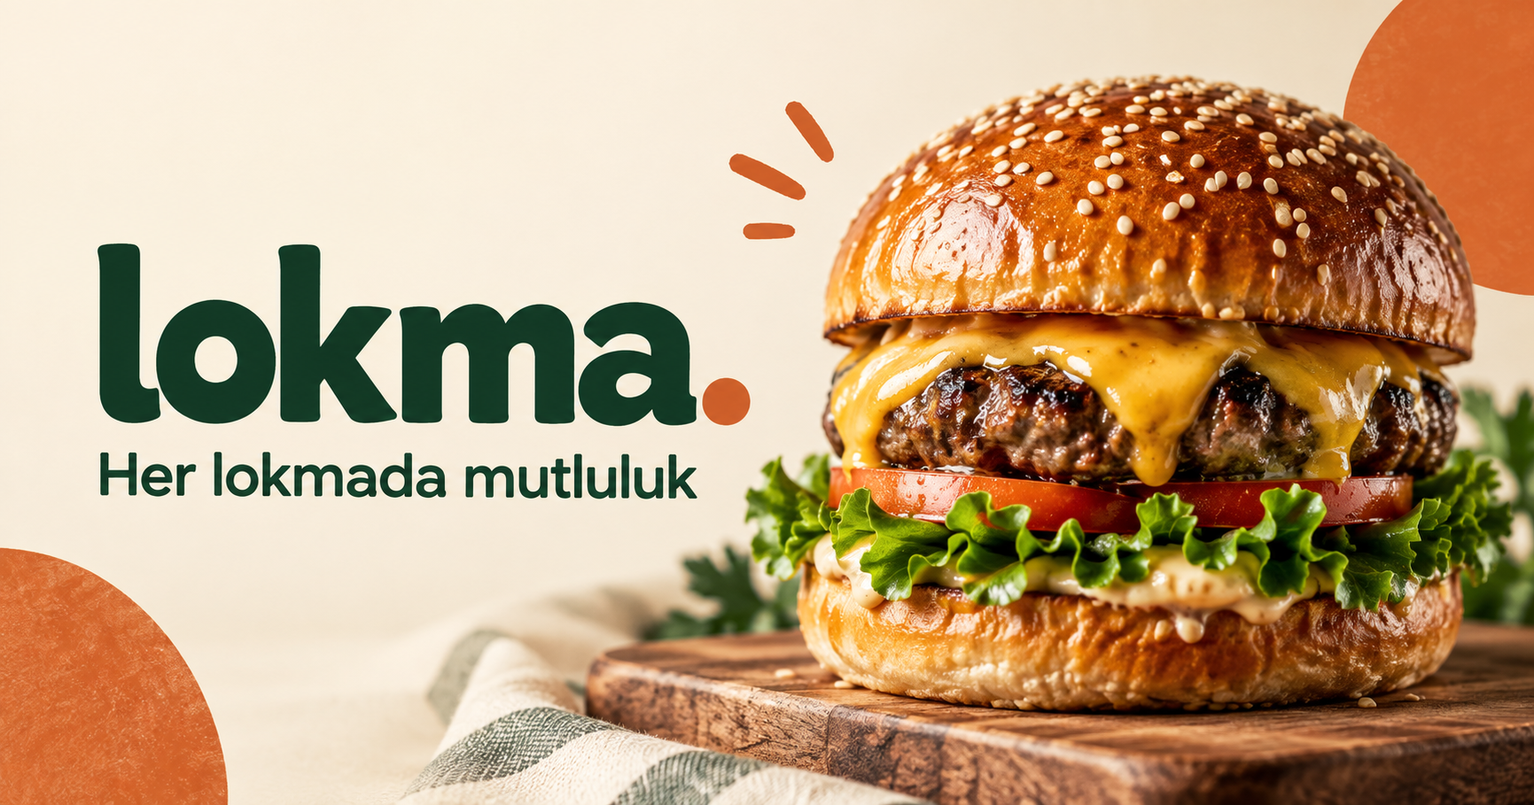
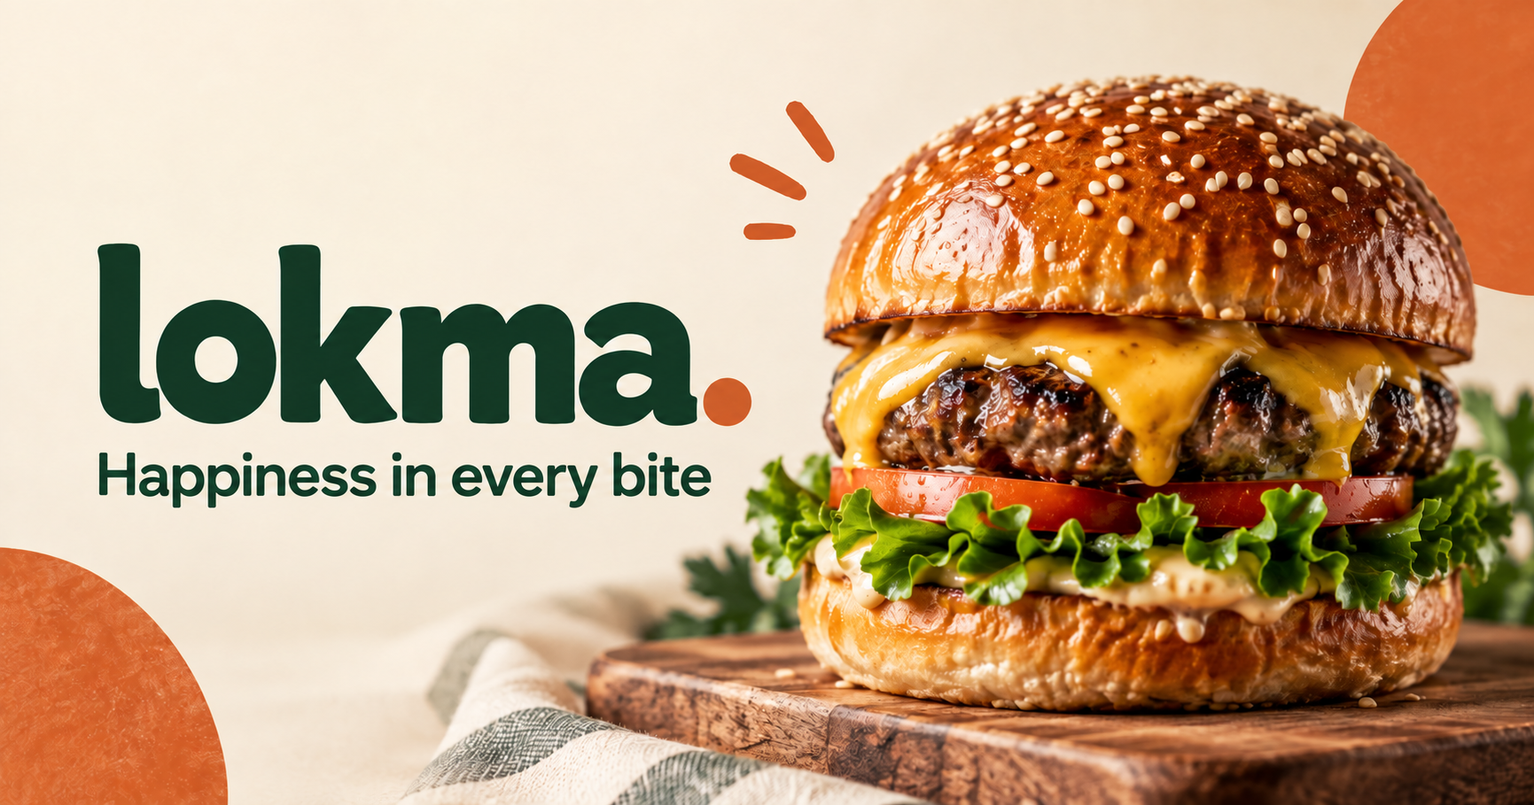
Translate Lokma website and social preview to English

diff --git a/src/app/page.tsx b/src/app/page.tsx
@@ -6,43 +6,43 @@ import CartContext from "./store/cart-context";
 
 const photo = (id: string, width = 700) => `https://images.unsplash.com/${id}?auto=format&fit=crop&w=${width}&q=85`;
 const meals = [
-  { id: "burger", name: "Klasik Cheeseburger", category: "Burger", price: 245, description: "Dana köfte, cheddar, karamelize soğan ve özel sos.", image: "photo-1568901346375-23c9450c58cd", tag: "Çok sevilen", time: "20–30 dk" },
-  { id: "pizza", name: "Margherita Pizza", category: "Pizza", price: 285, description: "İnce hamur, mozzarella, domates sosu ve taze fesleğen.", image: "photo-1574071318508-1cdbab80d002", tag: "Vejetaryen", time: "25–35 dk" },
-  { id: "bowl", name: "Akdeniz Bowl", category: "Sağlıklı", price: 220, description: "Mevsim yeşillikleri, avokado ve rengârenk sebzeler.", image: "photo-1512621776951-a57141f2eefd", tag: "Hafif & taze", time: "15–25 dk" },
-  { id: "pasta", name: "İtalyan Usulü Makarna", category: "Makarna", price: 260, description: "Domates sosu, taze otlar ve parmesan dokunuşu.", image: "photo-1473093295043-cdd812d0e601", tag: "Şefin seçimi", time: "20–30 dk" },
-  { id: "sweet", name: "Çikolatalı Brownie", category: "Tatlı", price: 135, description: "Yoğun bitter çikolata, yumuşacık iç, mutluluk garantili.", image: "photo-1606313564200-e75d5e30476c", tag: "Tatlı bir mola", time: "15–20 dk" },
-  { id: "salad", name: "Bahçe Salatası", category: "Sağlıklı", price: 195, description: "Günün sebzeleri, çıtır yeşillikler ve limonlu sos.", image: "photo-1511690743698-d9d85f2fbf38", tag: "Mevsiminde", time: "15–25 dk" },
+  { id: "burger", name: "Classic Cheeseburger", category: "Burger", price: 245, description: "Beef patty, cheddar, caramelized onions and our signature sauce.", image: "photo-1568901346375-23c9450c58cd", tag: "Bestseller", time: "20–30 min" },
+  { id: "pizza", name: "Margherita Pizza", category: "Pizza", price: 285, description: "Thin crust, mozzarella, tomato sauce and fresh basil.", image: "photo-1574071318508-1cdbab80d002", tag: "Vegetarian", time: "25–35 min" },
+  { id: "bowl", name: "Mediterranean Bowl", category: "Healthy", price: 220, description: "Seasonal greens, avocado and a colourful mix of vegetables.", image: "photo-1512621776951-a57141f2eefd", tag: "Light & fresh", time: "15–25 min" },
+  { id: "pasta", name: "Italian Pasta", category: "Pasta", price: 260, description: "Tomato sauce, fresh herbs and a finishing touch of parmesan.", image: "photo-1473093295043-cdd812d0e601", tag: "Chef’s choice", time: "20–30 min" },
+  { id: "sweet", name: "Chocolate Brownie", category: "Desserts", price: 135, description: "Rich dark chocolate, a fudgy centre and a little moment of joy.", image: "photo-1606313564200-e75d5e30476c", tag: "A sweet break", time: "15–20 min" },
+  { id: "salad", name: "Garden Salad", category: "Healthy", price: 195, description: "Fresh vegetables, crisp greens and a bright lemon dressing.", image: "photo-1511690743698-d9d85f2fbf38", tag: "In season", time: "15–25 min" },
 ];
-const categories = ["Tümü", "Burger", "Pizza", "Sağlıklı", "Makarna", "Tatlı"];
-const money = (value: number) => new Intl.NumberFormat("tr-TR", { style: "currency", currency: "TRY", maximumFractionDigits: 0 }).format(value);
+const categories = ["All", "Burger", "Pizza", "Healthy", "Pasta", "Desserts"];
+const money = (value: number) => new Intl.NumberFormat("en-GB", { style: "currency", currency: "TRY", maximumFractionDigits: 0 }).format(value);
 function Icon({ name, size = 20 }: { name: "bag" | "search" | "arrow" | "clock" | "pin"; size?: number }) {
   const paths = { bag: "M5 7h14l1 14H4L5 7ZM9 8V6a3 3 0 0 1 6 0v2", search: "m21 21-5-5M18 10a8 8 0 1 1-16 0 8 8 0 0 1 16 0", arrow: "M4 12h16m-6-6 6 6-6 6", clock: "M12 8v5l3 2M22 12a10 10 0 1 1-20 0 10 10 0 0 1 20 0", pin: "M20 10c0 6-8 12-8 12S4 16 4 10a8 8 0 1 1 16 0ZM15 10a3 3 0 1 1-6 0 3 3 0 0 1 6 0" };
   return <svg width={size} height={size} viewBox="0 0 24 24" fill="none" stroke="currentColor" strokeWidth="1.7" strokeLinecap="round" strokeLinejoin="round" aria-hidden="true"><path d={paths[name]} /></svg>;
 }
 function Experience() {
   const cart = useContext(CartContext);
-  const [category, setCategory] = useState("Tümü");
+  const [category, setCategory] = useState("All");
   const [search, setSearch] = useState("");
   const [stage, setStage] = useState<"cart" | "checkout" | "done">("cart");
   const [notice, setNotice] = useState("");
   const dialog = useRef<HTMLDialogElement>(null);
   const count = cart.items.reduce((sum, item) => sum + item.amount, 0);
-  const shown = meals.filter(meal => (category === "Tümü" || meal.category === category) && `${meal.name} ${meal.description}`.toLocaleLowerCase("tr").includes(search.toLocaleLowerCase("tr")));
+  const shown = meals.filter(meal => (category === "All" || meal.category === category) && `${meal.name} ${meal.description}`.toLocaleLowerCase("en").includes(search.toLocaleLowerCase("en")));
   useEffect(() => { if (!notice) return; const timeout = setTimeout(() => setNotice(""), 2200); return () => clearTimeout(timeout); }, [notice]);
   const openCart = () => { setStage("cart"); dialog.current?.showModal(); };
-  const add = (meal: typeof meals[number]) => { cart.addItem({ id: meal.id, name: meal.name, price: meal.price, amount: 1 }); setNotice(`${meal.name} sepete eklendi`); };
+  const add = (meal: typeof meals[number]) => { cart.addItem({ id: meal.id, name: meal.name, price: meal.price, amount: 1 }); setNotice(`${meal.name} added to your cart`); };
   return <>
-    <div className="announcement">İyi yemek, güzel bir günün başlangıcı. <span>Her lokmada mutluluk.</span></div>
-    <header className="header container"><a className="brand" href="#" aria-label="Lokma ana sayfa"><span className="brand-mark">l.</span>lokma<span className="brand-dot">.</span></a><nav aria-label="Ana menü"><a href="#menu" className="active">Menü</a><a href="#about">Neden Lokma?</a><a href="#help">Sıkça sorulanlar</a></nav><button className="cart-button" onClick={openCart}><Icon name="bag" /><span>Sepetim</span><b>{count}</b></button></header>
+    <div className="announcement">Good food makes a great day. <span>Happiness in every bite.</span></div>
+    <header className="header container"><a className="brand" href="#" aria-label="Lokma home"><span className="brand-mark">l.</span>lokma<span className="brand-dot">.</span></a><nav aria-label="Main navigation"><a href="#menu" className="active">Menu</a><a href="#about">Why Lokma?</a><a href="#help">FAQs</a></nav><button className="cart-button" onClick={openCart}><Icon name="bag" /><span>My cart</span><b>{count}</b></button></header>
     <main>
-      <section className="hero container"><div className="hero-copy"><div className="eyebrow"><span /> TAZE HAZIRLANIR, KEYİFLE YENİR</div><h1>Canın ne çekerse,<br /><em>bir lokma</em> uzağında.</h1><p>Özenle seçilmiş malzemeler, sevdiğin lezzetler.<br />Günün en güzel molası için sofrayı biz kuralım.</p><a className="primary" href="#menu">Menüyü keşfet <Icon name="arrow" /></a><div className="hero-notes"><span><Icon name="clock" size={17} /> Sıcacık & taptaze</span><span><span className="tiny-star">✦</span> Özenle hazırlanan lezzetler</span></div></div><div className="hero-visual"><img className="hero-image" src={photo("photo-1568901346375-23c9450c58cd", 1100)} alt="Taze sebzeler ve erimiş cheddar ile hazırlanan burger" fetchPriority="high" /><div className="image-label">İYİ MALZEME.<br />GERÇEK LEZZET.</div><div className="floating-card"><span className="floating-icon">✦</span><div><strong>Bugünün favorisi</strong><span>Klasik Cheeseburger</span></div><button aria-label="Klasik Cheeseburger sepete ekle" onClick={() => add(meals[0])}>↗</button></div><div className="round-stamp">MUTLULUK<br /><b>bir lokma</b><br />İLE BAŞLAR</div></div></section>
-      <div className="perks container"><span><b>01</b> Gerçek malzemeler</span><span><b>02</b> Siparişine özel hazırlanır</span><span><b>03</b> Her damak tadına uygun</span><span><b>04</b> Son lokmaya kadar keyif</span></div>
-      <section className="menu-section container" id="menu"><div className="section-top"><div><div className="eyebrow">GÜZEL BİR SEÇİM YAP</div><h2>Bugün ne yesek?</h2></div><label className="search"><Icon name="search" /><input value={search} onChange={e => setSearch(e.target.value)} placeholder="Canın ne çekiyor?" aria-label="Menüde ara" />{search && <button aria-label="Aramayı temizle" onClick={() => setSearch("")}>×</button>}</label></div><div className="category-bar">{categories.map((item, i) => <button key={item} className={category === item ? "selected" : ""} onClick={() => setCategory(item)} aria-pressed={category === item}><span aria-hidden="true">{["✦", "◒", "◔", "❋", "≋", "♡"][i]}</span>{item}</button>)}<span className="result-count">{shown.length} lezzet seni bekliyor</span></div><div className="meal-grid">{shown.map(meal => <article className="meal-card" key={meal.id}><div className="meal-photo"><img src={photo(meal.image)} alt={meal.name} loading="lazy" /><span className={`tag ${meal.category === "Sağlıklı" || meal.category === "Pizza" ? "green" : ""}`}>{meal.tag}</span></div><div className="meal-info"><div className="meal-meta"><span>{meal.category}</span><span><Icon name="clock" size={13} />{meal.time}</span></div><h3>{meal.name}</h3><p>{meal.description}</p><div className="meal-bottom"><strong>{money(meal.price)}</strong><button onClick={() => add(meal)} aria-label={`${meal.name} sepete ekle`}><span>Sepete ekle</span> +</button></div></div></article>)}</div>{shown.length === 0 && <div className="empty-state"><h3>Bu lezzeti bulamadık.</h3><p>Başka bir kelime dene veya tüm menüye göz at.</p><button className="primary" onClick={() => {setSearch(""); setCategory("Tümü");}}>Tüm menüyü göster</button></div>}</section>
-      <section className="story container" id="about"><div className="story-symbol">✳</div><div><div className="eyebrow">BİZİM TARİFİMİZ ÇOK BASİT</div><h2>İyi yemek. İyi hissettirir.</h2><p>Mevsimin tazeliğini, mutfağın özenini ve paylaşmanın mutluluğunu<br className="desktop" /> aynı sofrada buluşturuyoruz. Çünkü her öğün güzel olmayı hak eder.</p></div><a href="#menu" className="text-link">Bir lezzet seç <Icon name="arrow" /></a></section>
-      <section id="help" className="faq container"><div><div className="eyebrow">AKLINDA BULUNSUN</div><h2>Küçük sorular,<br />net cevaplar.</h2></div><div className="faq-items"><details><summary>Nasıl sipariş verebilirim?</summary><p>Menüden seçtiklerini sepete ekle, miktarları düzenle ve teslimat formunu doldur. Bu örnek sitede siparişler demo olarak tamamlanır; ödeme alınmaz ve teslimat yapılmaz.</p></details><details><summary>Vejetaryen seçenekler var mı?</summary><p>Pizza ve Sağlıklı kategorilerindeki seçenekleri inceleyebilirsin. Alerjen bilgisi ve özel beslenme ihtiyaçları için gerçek sipariş öncesinde restoranla iletişime geçilmelidir.</p></details><details><summary>Teslimat süresi ne kadar?</summary><p>Kartlardaki süreler örnek hazırlık ve teslimat tahminleridir. Bu demo gerçek teslimat hizmeti sunmaz.</p></details></div></section>
-    </main><footer className="container"><a href="#" className="brand">lokma<span className="brand-dot">.</span></a><span>Güzel lezzetler, güzel anlar.</span><small>© {new Date().getFullYear()} Lokma · Örnek restoran deneyimi</small></footer>
+      <section className="hero container"><div className="hero-copy"><div className="eyebrow"><span /> FRESHLY MADE. HAPPILY ENJOYED.</div><h1>Whatever you crave,<br /><em>one bite</em> away.</h1><p>Thoughtfully chosen ingredients. Flavours you love.<br />Let us make your next break the best part of your day.</p><a className="primary" href="#menu">Explore the menu <Icon name="arrow" /></a><div className="hero-notes"><span><Icon name="clock" size={17} /> Warm & fresh</span><span><span className="tiny-star">✦</span> Made with care</span></div></div><div className="hero-visual"><img className="hero-image" src={photo("photo-1568901346375-23c9450c58cd", 1100)} alt="Burger with fresh vegetables and melted cheddar" fetchPriority="high" /><div className="image-label">GOOD INGREDIENTS.<br />REAL FLAVOUR.</div><div className="floating-card"><span className="floating-icon">✦</span><div><strong>Today’s favourite</strong><span>Classic Cheeseburger</span></div><button aria-label="Classic Cheeseburger add to cart" onClick={() => add(meals[0])}>↗</button></div><div className="round-stamp">HAPPINESS<br /><b>one bite</b><br />AT A TIME</div></div></section>
+      <div className="perks container"><span><b>01</b> Real ingredients</span><span><b>02</b> Freshly made to order</span><span><b>03</b> Something for everyone</span><span><b>04</b> Joy in every bite</span></div>
+      <section className="menu-section container" id="menu"><div className="section-top"><div><div className="eyebrow">FIND YOUR NEXT FAVOURITE</div><h2>What sounds good today?</h2></div><label className="search"><Icon name="search" /><input value={search} onChange={e => setSearch(e.target.value)} placeholder="What are you craving?" aria-label="Search the menu" />{search && <button aria-label="Clear search" onClick={() => setSearch("")}>×</button>}</label></div><div className="category-bar">{categories.map((item, i) => <button key={item} className={category === item ? "selected" : ""} onClick={() => setCategory(item)} aria-pressed={category === item}><span aria-hidden="true">{["✦", "◒", "◔", "❋", "≋", "♡"][i]}</span>{item}</button>)}<span className="result-count">{shown.length} delicious choices</span></div><div className="meal-grid">{shown.map(meal => <article className="meal-card" key={meal.id}><div className="meal-photo"><img src={photo(meal.image)} alt={meal.name} loading="lazy" /><span className={`tag ${meal.category === "Healthy" || meal.category === "Pizza" ? "green" : ""}`}>{meal.tag}</span></div><div className="meal-info"><div className="meal-meta"><span>{meal.category}</span><span><Icon name="clock" size={13} />{meal.time}</span></div><h3>{meal.name}</h3><p>{meal.description}</p><div className="meal-bottom"><strong>{money(meal.price)}</strong><button onClick={() => add(meal)} aria-label={`${meal.name} add to cart`}><span>Add to cart</span> +</button></div></div></article>)}</div>{shown.length === 0 && <div className="empty-state"><h3>No dishes found.</h3><p>Try another search or explore the full menu.</p><button className="primary" onClick={() => {setSearch(""); setCategory("All");}}>Show all dishes</button></div>}</section>
+      <section className="story container" id="about"><div className="story-symbol">✳</div><div><div className="eyebrow">OUR RECIPE IS SIMPLE</div><h2>Good food. Good mood.</h2><p>Seasonal freshness, a little kitchen care and the joy of sharing<br className="desktop" /> come together at our table. Because every meal deserves to be a good one.</p></div><a href="#menu" className="text-link">Find your favourite <Icon name="arrow" /></a></section>
+      <section id="help" className="faq container"><div><div className="eyebrow">GOOD TO KNOW</div><h2>Little questions,<br />simple answers.</h2></div><div className="faq-items"><details><summary>How do I place an order?</summary><p>Add your favourites to the cart, adjust quantities and fill in the delivery form. This is a demo website: no payment is taken and no delivery is arranged.</p></details><details><summary>Are there vegetarian options?</summary><p>Explore our Pizza and Healthy categories. For allergen information or special dietary requirements, contact the restaurant before placing a real order.</p></details><details><summary>How long does delivery take?</summary><p>The times on our menu are sample preparation and delivery estimates. This demo does not offer a real delivery service.</p></details></div></section>
+    </main><footer className="container"><a href="#" className="brand">lokma<span className="brand-dot">.</span></a><span>Good flavours. Great moments.</span><small>© {new Date().getFullYear()} Lokma · Demo restaurant experience</small></footer>
     <div className={`toast ${notice ? "visible" : ""}`} role="status">✓ {notice}</div>
-    <dialog ref={dialog} className="cart-dialog" onClick={e => {if(e.target === e.currentTarget) dialog.current?.close();}}><div className="dialog-header"><h2>{stage === "done" ? "Teşekkürler!" : stage === "checkout" ? "Teslimat bilgileri" : "Sepetim"}</h2><button className="close" onClick={() => dialog.current?.close()} aria-label="Sepeti kapat">×</button></div>{stage === "done" ? <div className="empty-state"><span className="success-icon">✓</span><h3>Demo siparişin tamamlandı.</h3><p>Bu bir örnek deneyimdir. Ödeme alınmadı ve gerçek sipariş oluşturulmadı.</p><button className="primary" onClick={() => dialog.current?.close()}>Menüye dön</button></div> : stage === "checkout" ? <form className="checkout" onSubmit={e => {e.preventDefault(); cart.clearCart(); setStage("done");}}><p className="demo-note">Demo sipariş · Bilgilerin gönderilmez veya kaydedilmez.</p><label>Ad soyad<input name="name" required minLength={2} autoComplete="name" /></label><label>Telefon<input name="phone" type="tel" required pattern="[+0-9 ()-]{10,20}" autoComplete="tel" /></label><label>Teslimat adresi<textarea name="address" required minLength={10} autoComplete="street-address" rows={3} /></label><div className="total"><span>Toplam</span><strong>{money(cart.totalAmount)}</strong></div><button className="primary" type="submit">Demo siparişi tamamla <Icon name="arrow" /></button><button type="button" className="back" onClick={() => setStage("cart")}>Sepete dön</button></form> : cart.items.length ? <><div className="cart-items">{cart.items.map(item => <div key={item.id} className="cart-row"><img src={photo(meals.find(m => m.id === item.id)!.image, 150)} alt="" /><div><h3>{item.name}</h3><strong>{money(item.price * item.amount)}</strong></div><div className="quantity"><button onClick={() => cart.removeItem(item.id)} aria-label={`${item.name} azalt`}>−</button><span>{item.amount}</span><button onClick={() => cart.addItem({...item, amount: 1})} aria-label={`${item.name} artır`}>+</button></div></div>)}</div><div className="total"><span>Toplam</span><strong>{money(cart.totalAmount)}</strong></div><p className="demo-note">Örnek menü ve fiyatlar · Gerçek ödeme alınmaz.</p><button className="primary wide" onClick={() => setStage("checkout")}>Siparişe devam et <Icon name="arrow" /></button></> : <div className="empty-state"><Icon name="bag" size={40} /><h3>Güzel bir lokmaya yer var.</h3><p>Menüden favorilerini seç, sepetin lezzetlensin.</p><button className="primary" onClick={() => dialog.current?.close()}>Menüyü keşfet</button></div>}</dialog>
+    <dialog ref={dialog} className="cart-dialog" onClick={e => {if(e.target === e.currentTarget) dialog.current?.close();}}><div className="dialog-header"><h2>{stage === "done" ? "Thank you!" : stage === "checkout" ? "Delivery details" : "My cart"}</h2><button className="close" onClick={() => dialog.current?.close()} aria-label="Close cart">×</button></div>{stage === "done" ? <div className="empty-state"><span className="success-icon">✓</span><h3>Your demo order is complete.</h3><p>This is a demo experience. No payment was taken and no real order was placed.</p><button className="primary" onClick={() => dialog.current?.close()}>Back to menu</button></div> : stage === "checkout" ? <form className="checkout" onSubmit={e => {e.preventDefault(); cart.clearCart(); setStage("done");}}><p className="demo-note">Demo order · Your details are not sent or stored.</p><label>Full name<input name="name" required minLength={2} autoComplete="name" /></label><label>Phone number<input name="phone" type="tel" required pattern="[+0-9 ()-]{10,20}" autoComplete="tel" /></label><label>Delivery address<textarea name="address" required minLength={10} autoComplete="street-address" rows={3} /></label><div className="total"><span>Total</span><strong>{money(cart.totalAmount)}</strong></div><button className="primary" type="submit">Complete demo order <Icon name="arrow" /></button><button type="button" className="back" onClick={() => setStage("cart")}>Back to cart</button></form> : cart.items.length ? <><div className="cart-items">{cart.items.map(item => <div key={item.id} className="cart-row"><img src={photo(meals.find(m => m.id === item.id)!.image, 150)} alt="" /><div><h3>{item.name}</h3><strong>{money(item.price * item.amount)}</strong></div><div className="quantity"><button onClick={() => cart.removeItem(item.id)} aria-label={`${item.name} decrease`}>−</button><span>{item.amount}</span><button onClick={() => cart.addItem({...item, amount: 1})} aria-label={`${item.name} increase`}>+</button></div></div>)}</div><div className="total"><span>Total</span><strong>{money(cart.totalAmount)}</strong></div><p className="demo-note">Sample menu and prices · No real payment is taken.</p><button className="primary wide" onClick={() => setStage("checkout")}>Continue to checkout <Icon name="arrow" /></button></> : <div className="empty-state"><Icon name="bag" size={40} /><h3>Your next great bite awaits.</h3><p>Pick your favourites from the menu to fill your cart.</p><button className="primary" onClick={() => dialog.current?.close()}>Explore the menu</button></div>}</dialog>
   </>;
 }
 export default function Home() { return <CartProvider><Experience /></CartProvider>; }

diff --git a/tests/menu.test.tsx b/tests/menu.test.tsx
@@ -11,28 +11,28 @@ describe("menu and ordering", () => {
     render(<Home />);
     fireEvent.click(screen.getByRole("button", {name: "Pizza"}));
     expect(screen.getAllByRole("article")).toHaveLength(1);
-    fireEvent.change(screen.getByRole("textbox", {name: "Menüde ara"}), {target: {value: "xyz"}});
+    fireEvent.change(screen.getByRole("textbox", {name: "Search the menu"}), {target: {value: "xyz"}});
     expect(screen.queryAllByRole("article")).toHaveLength(0);
-    fireEvent.click(screen.getByRole("button", {name: "Tüm menüyü göster"}));
+    fireEvent.click(screen.getByRole("button", {name: "Show all dishes"}));
     expect(screen.getAllByRole("article")).toHaveLength(6);
   });
   it("updates cart totals and completes an explicitly demo order", () => {
     render(<Home />);
-    const add = screen.getByRole("button", {name: "Margherita Pizza sepete ekle"});
+    const add = screen.getByRole("button", {name: "Margherita Pizza add to cart"});
     fireEvent.click(add); fireEvent.click(add);
-    fireEvent.click(screen.getByRole("button", {name: /Sepetim/}));
+    fireEvent.click(screen.getByRole("button", {name: /My cart/}));
     const modal = screen.getByRole("dialog");
-    expect(within(modal).getAllByText("₺570")).toHaveLength(2);
-    fireEvent.click(within(modal).getByRole("button", {name: "Margherita Pizza azalt"}));
-    expect(within(modal).getAllByText("₺285")).toHaveLength(2);
-    fireEvent.click(within(modal).getByRole("button", {name: /Siparişe devam/}));
-    fireEvent.change(screen.getByLabelText("Ad soyad"), {target: {value: "Test Kullanıcı"}});
-    fireEvent.change(screen.getByLabelText("Telefon"), {target: {value: "05555555555"}});
-    fireEvent.change(screen.getByLabelText("Teslimat adresi"), {target: {value: "Örnek Mahallesi No: 1"}});
-    fireEvent.submit(screen.getByRole("button", {name: /Demo siparişi tamamla/}).closest("form")!);
-    expect(screen.getByText("Demo siparişin tamamlandı.")).toBeTruthy();
-    fireEvent.click(screen.getByRole("button", {name: "Menüye dön"}));
-    fireEvent.click(screen.getByRole("button", {name: /Sepetim/}));
-    expect(screen.getByText("Güzel bir lokmaya yer var.")).toBeTruthy();
+    expect(within(modal).getAllByText(/TRY\s*570/)).toHaveLength(2);
+    fireEvent.click(within(modal).getByRole("button", {name: "Margherita Pizza decrease"}));
+    expect(within(modal).getAllByText(/TRY\s*285/)).toHaveLength(2);
+    fireEvent.click(within(modal).getByRole("button", {name: /Continue to checkout/}));
+    fireEvent.change(screen.getByLabelText("Full name"), {target: {value: "Test Customer"}});
+    fireEvent.change(screen.getByLabelText("Phone number"), {target: {value: "05555555555"}});
+    fireEvent.change(screen.getByLabelText("Delivery address"), {target: {value: "1 Example Street"}});
+    fireEvent.submit(screen.getByRole("button", {name: /Complete demo order/}).closest("form")!);
+    expect(screen.getByText("Your demo order is complete.")).toBeTruthy();
+    fireEvent.click(screen.getByRole("button", {name: "Back to menu"}));
+    fireEvent.click(screen.getByRole("button", {name: /My cart/}));
+    expect(screen.getByText("Your next great bite awaits.")).toBeTruthy();
   });
 });

diff --git a/src/app/layout.tsx b/src/app/layout.tsx
@@ -4,11 +4,11 @@ import "./globals.css";
 
 export const metadata: Metadata = {
   metadataBase: new URL("https://lokma-lezzet.fatmakhv.chatgpt.site"),
-  title: "Lokma — Her lokmada mutluluk",
-  description: "Taze hazırlanan burgerler, pizzalar ve rengârenk kaseler. Lokma menüsünü keşfet, favorilerini seç.",
-  openGraph: { title: "Lokma — Her lokmada mutluluk", description: "İyi yemek. İyi hissettirir.", locale: "tr_TR", type: "website", images: ["/og.png"] },
-  twitter: { images: ["/og.png"], card: "summary_large_image", title: "Lokma — Her lokmada mutluluk", description: "İyi yemek. İyi hissettirir." },
+  title: "Lokma — Happiness in every bite",
+  description: "Freshly prepared burgers, pizzas and colourful bowls. Explore the Lokma menu and find your favourites.",
+  openGraph: { title: "Lokma — Happiness in every bite", description: "Good food. Good mood.", locale: "en_GB", type: "website", images: ["/og.png"] },
+  twitter: { images: ["/og.png"], card: "summary_large_image", title: "Lokma — Happiness in every bite", description: "Good food. Good mood." },
 };
 export default function RootLayout({ children }: { children: ReactNode }) {
-  return <html lang="tr"><body><div id="overlays" />{children}</body></html>;
+  return <html lang="en"><body><div id="overlays" />{children}</body></html>;
 }
